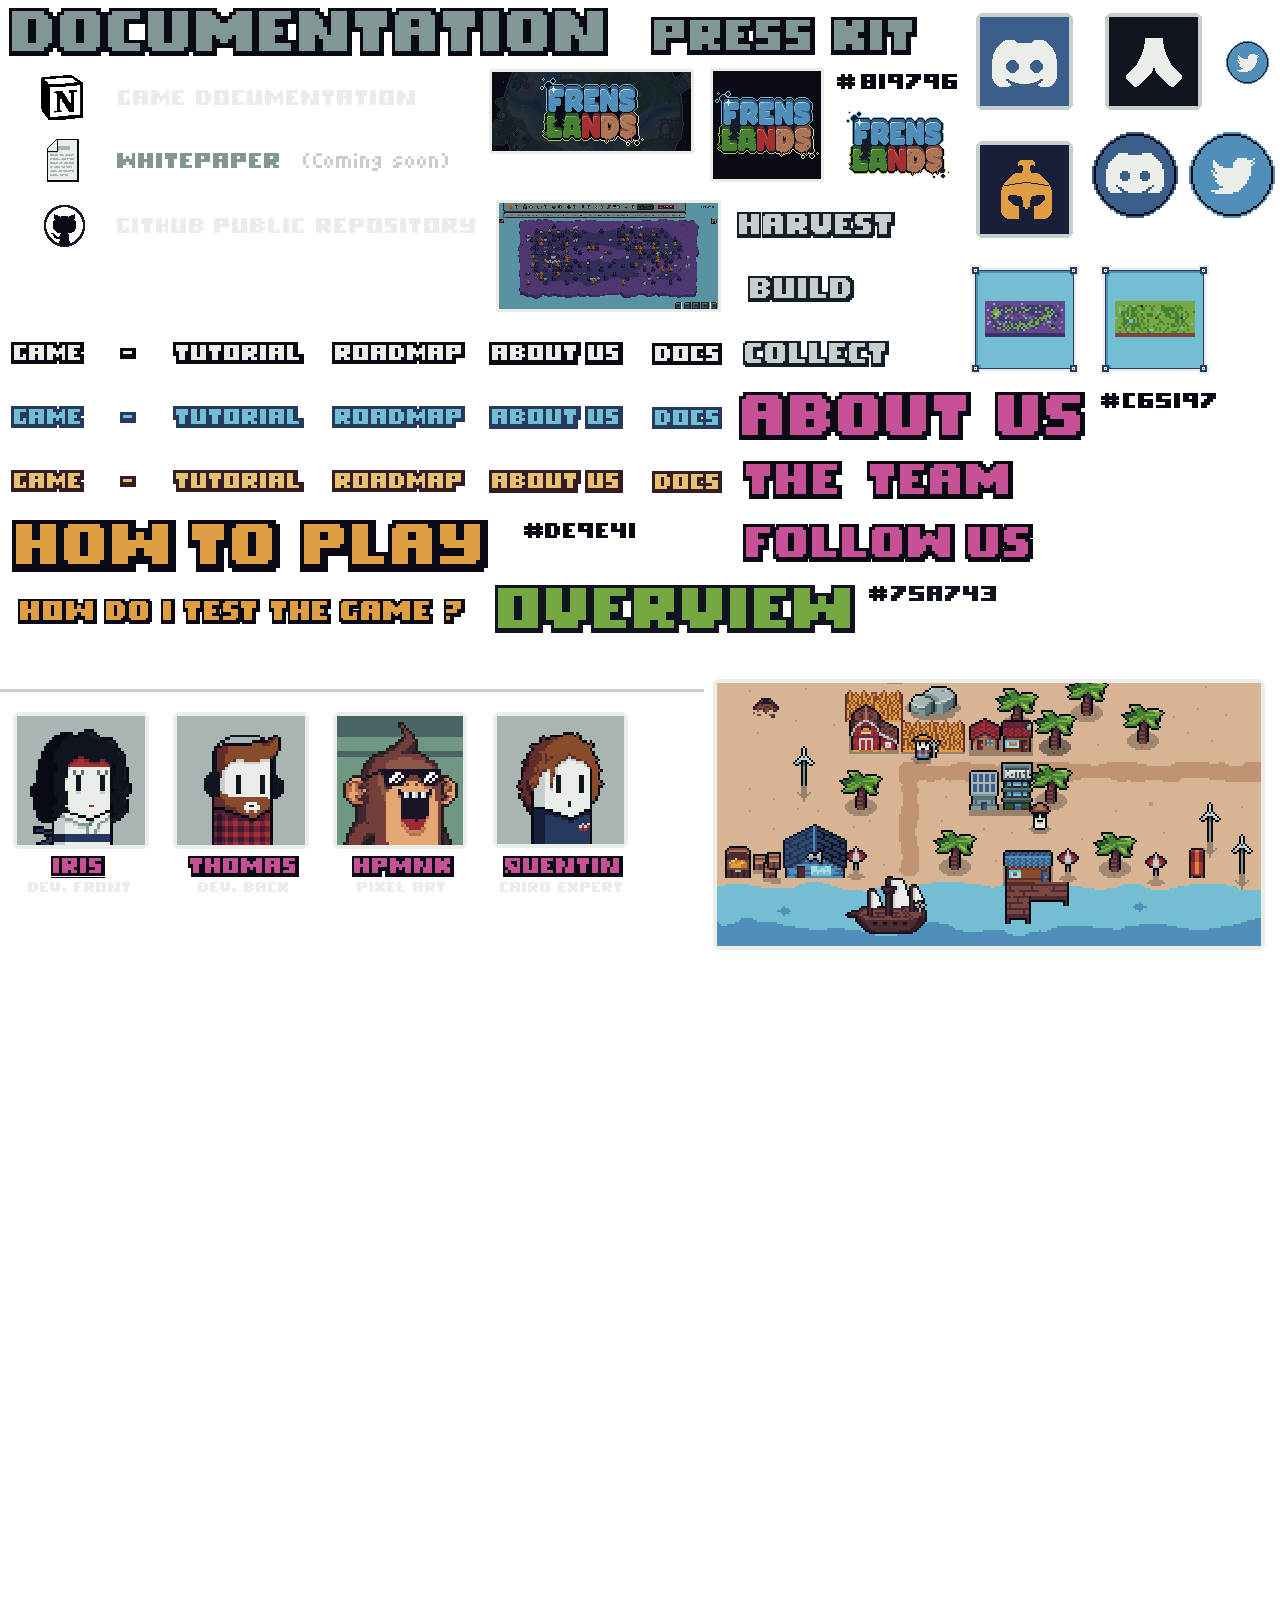
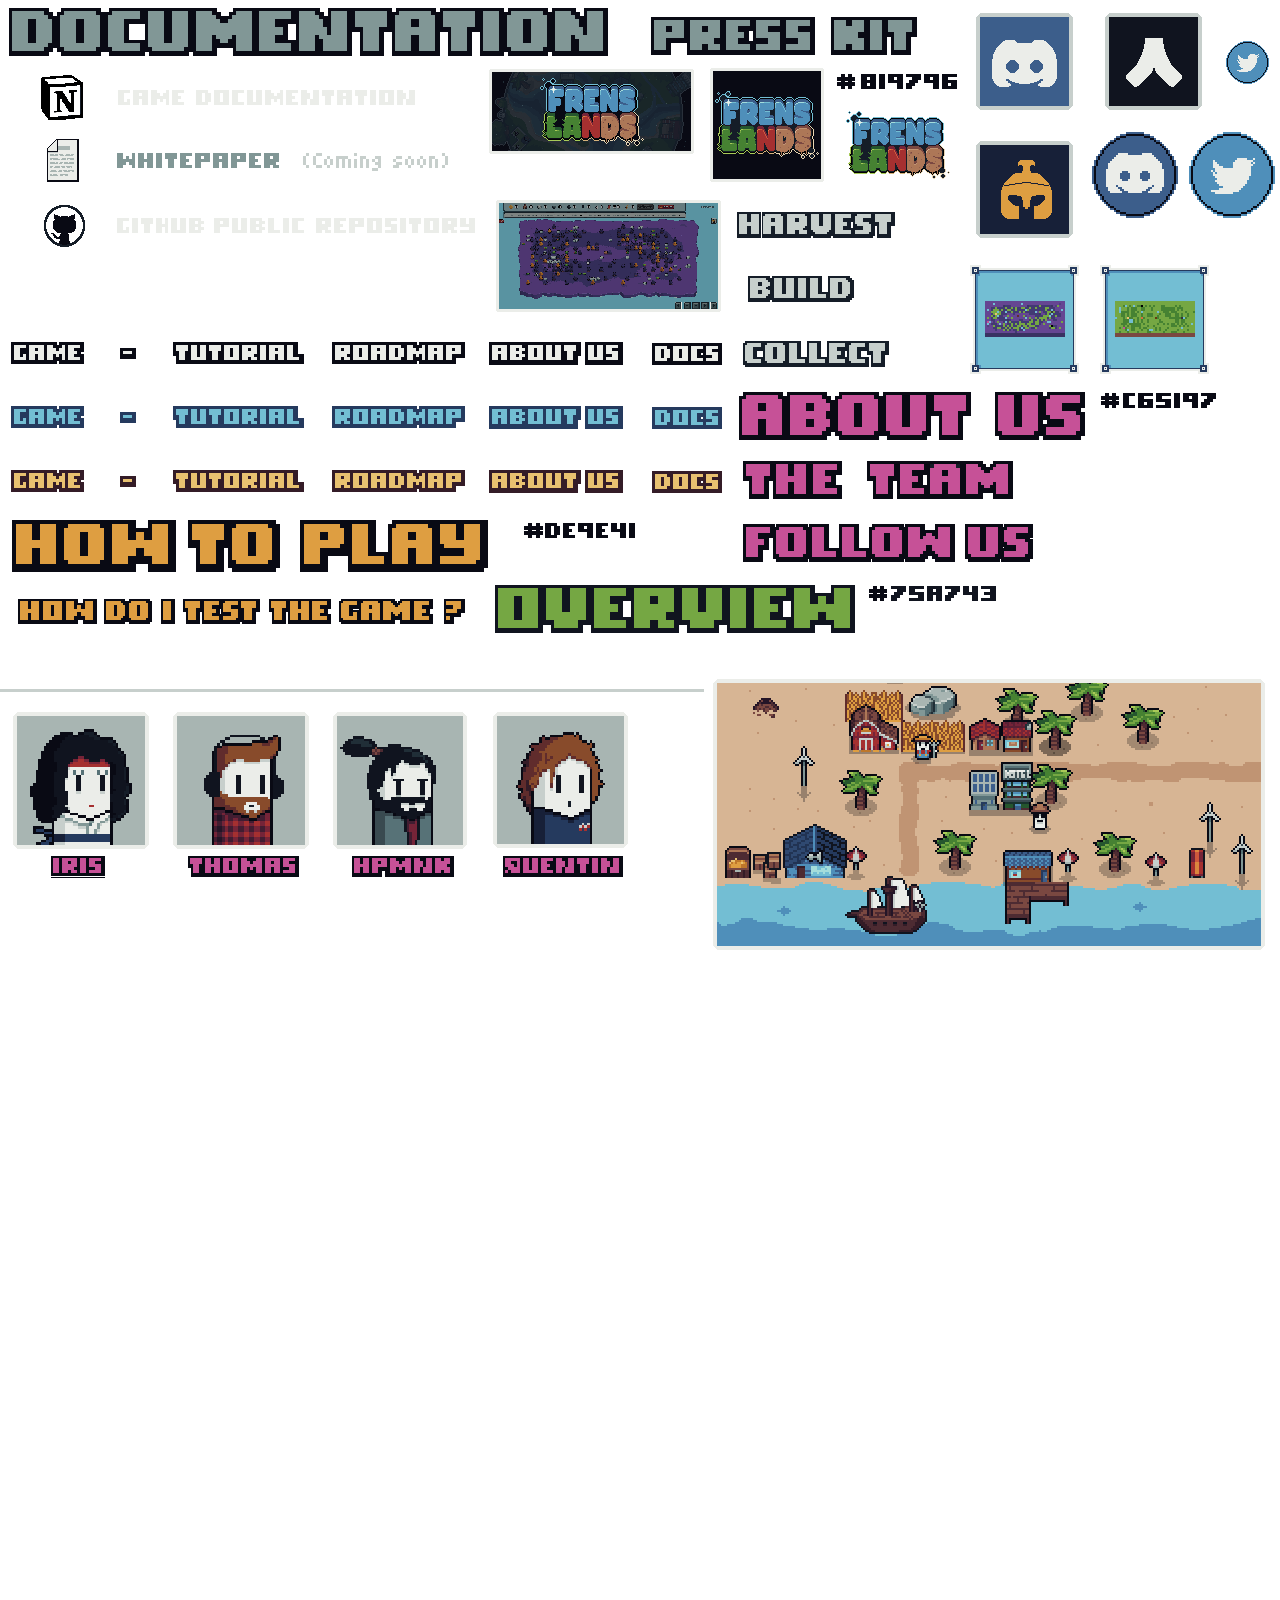
update page aboutUs

Changed region(s): [[0.25, 0.4375, 0.375, 0.5312]]

diff --git a/src/client/pages/Team.tsx b/src/client/pages/Team.tsx
@@ -24,16 +24,19 @@ export default function Team() {
             <div className="grid md:grid-cols-3">
               <div className="flex flex-col justify-center">
                   <div className="img-iris mx-auto text-center"></div>
+                  <div className="team-desc fontHpxl_JuicyXL uppercase text-white mx-auto text-center mb-2" style={{marginTop: '-25px'}}>Dev cairo / front</div>
                   {/* <div className="team-desc fontHPxl-sm text-white mx-auto text-justify w-2/3">Lorem ipsum et dolor. Lorem ipsum et dolor. Lorem ipsum et dolor. Lorem ipsum et dolor.</div> */}
                   <a href="https://twitter.com/IrisdeVillars" target='_blank' className="mx-auto text-center"><div className="twitterIcon"></div></a>
               </div>
               <div className="flex flex-col justify-center">
                   <div className="img-thomas mx-auto text-center"></div>
+                  <div className="team-desc fontHpxl_JuicyXL uppercase text-white mx-auto text-center mb-2" style={{marginTop: '-25px'}}>Dev back</div>
                   {/* <div className="team-desc fontHPxl-sm text-white mx-auto text-justify w-2/3">Lorem ipsum et dolor. Lorem ipsum et dolor. Lorem ipsum et dolor. Lorem ipsum et dolor.</div> */}
                   <a href="https://twitter.com/Thomas7x7" target='_blank' className="mx-auto text-center"><div className="twitterIcon"></div></a>
               </div>
               <div className="flex flex-col justify-center">
                   <div className="img-hpmnk mx-auto text-center"></div>
+                  <div className="team-desc fontHpxl_JuicyXL uppercase text-white mx-auto text-center mb-2" style={{marginTop: '-25px'}}>Pixel art</div>
                   {/* <div className="team-desc fontHPxl-sm text-white mx-auto text-justify w-2/3">Lorem ipsum et dolor. Lorem ipsum et dolor. Lorem ipsum et dolor. Lorem ipsum et dolor.</div> */}
                   <a href="https://twitter.com/HPMNK_One" target='_blank' className="mx-auto text-center"><div className="twitterIcon"></div></a>
               </div>
